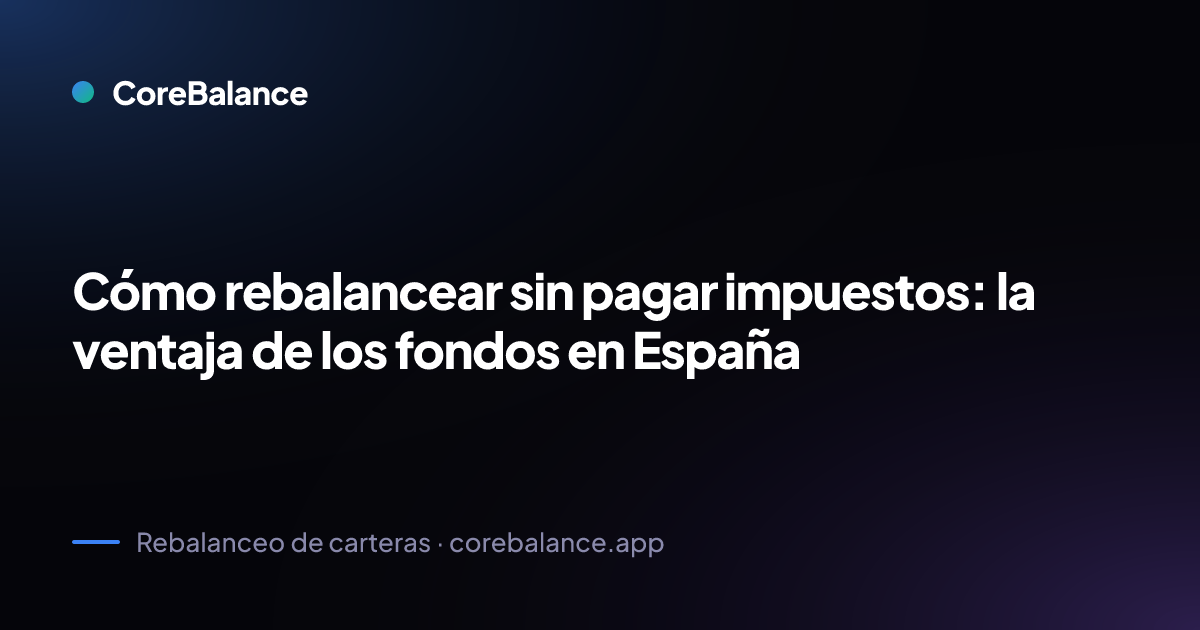
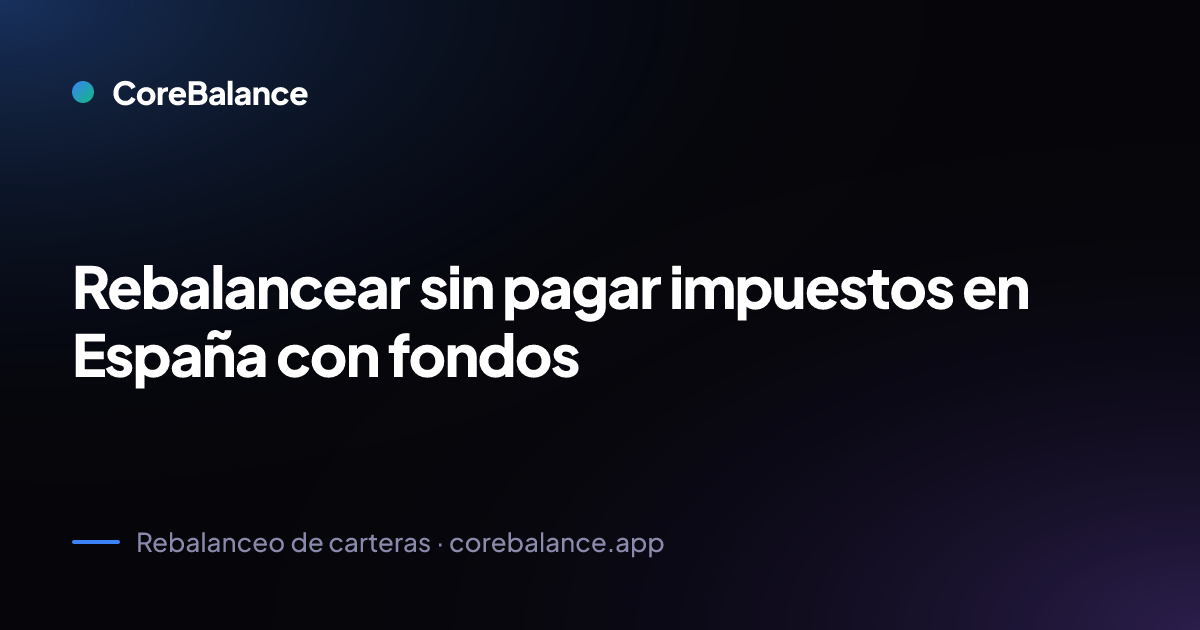
seo: quita el sufijo de marca de los títulos del blog y reenfoca acc-vs-dist
Sale de mirar Search Console con datos de tres meses: 55 clics, 3.700
impresiones, CTR 1,5 %, posición media 19,7.

⚠ Esa media engañaba. Las páginas que importan están en posiciones 6,5-9,2
—primera página—; el 19,7 lo arrastra una cola en posición 38-68. Así que lo
que hay no es un problema de ranking sino de CTR en posiciones donde el CTR sí
se puede trabajar.

## El sufijo « | CoreBalance» era el 75 % del problema

`BlogPost.svelte` componía `${post.title} | CoreBalance`: 14 caracteres en cada
uno de los 42 posts, sobre un presupuesto de ~60 que Google trunca. De los 27
títulos que `seo:audit` marcaba, **24 lo estaban solo por él**.

Y no aportaba marca: Google ya pinta el dominio encima del título, así que era
la misma información dos veces, pagada con la parte que responde a la consulta.
Medido: la consulta «corebalance» son 21 impresiones de 3.700. No hay marca que
proteger todavía. Las páginas que no son del blog conservan su sufijo, porque
ahí el título es de producto.

Resultado: 32 avisos → 5, y ninguno es ya de título.

## msci-world-acc-vs-dist: 651 impresiones, posición 7,9, CTR 1,4 %

Es la mayor visibilidad del sitio (18 % de todas las impresiones) rindiendo a un
tercio de lo normal para el puesto 8. Sus consultas son `acc vs dist`, `acc dis`,
`acc dist`: quieren **la diferencia**. El título abría con «El mejor ETF MSCI
World:», que promete una recomendación de fondo y deja lo que se pregunta detrás
[…]

Changed region(s): [[0.0617, 0.4222, 0.8633, 0.6333]]

diff --git a/src/lib/components/blog/BlogPost.svelte b/src/lib/components/blog/BlogPost.svelte
@@ -124,8 +124,23 @@
   const Content = $derived(post.content);
 </script>
 
+<!--
+  ⚠ El título va **sin** sufijo « | CoreBalance», y es un cambio medido, no estético.
+
+  Ese sufijo costaba 14 caracteres en cada uno de los 42 posts, sobre un presupuesto de
+  ~60 que Google trunca: 20 de los 27 títulos que `npm run seo:audit` marcaba como
+  truncados lo estaban **solo** por él. Y no aportaba marca, porque Google ya pinta el
+  dominio encima del título en el resultado — era la misma información dos veces, pagada
+  con la parte del título que sí responde a la consulta.
+
+  Medido el 11-ago-2026 en Search Console (3 meses): la consulta «corebalance» son 21
+  impresiones de 3.700. No hay marca que proteger todavía; sí hay títulos que truncar.
+
+  Las páginas que NO son del blog conservan su sufijo: ahí el título es de producto y la
+  marca sí es lo que se busca.
+-->
 <SeoHead
-  title={`${post.title} | CoreBalance`}
+  title={post.title}
   description={post.description}
   path={`/blog/${post.slug}`}
   lang={currentLang}

diff --git a/src/lib/i18n/i18n-types.ts b/src/lib/i18n/i18n-types.ts
@@ -745,7 +745,7 @@ type RootTranslation = {
 	}
 	seo: {
 		/**
-		 * CoreBalance — Gestiona y rebalancea tu cartera de fondos indexados y ETFs
+		 * CoreBalance — Gestiona y rebalancea tu cartera indexada
 		 */
 		title: string
 		/**
@@ -4887,7 +4887,7 @@ export type TranslationFunctions = {
 	}
 	seo: {
 		/**
-		 * CoreBalance — Gestiona y rebalancea tu cartera de fondos indexados y ETFs
+		 * CoreBalance — Gestiona y rebalancea tu cartera indexada
 		 */
 		title: () => LocalizedString
 		/**

diff --git a/src/lib/i18n/es/index.ts b/src/lib/i18n/es/index.ts
@@ -209,7 +209,7 @@ const es = {
   },
   // SEO
   seo: {
-    title: 'CoreBalance — Gestiona y rebalancea tu cartera de fondos indexados y ETFs',
+    title: 'CoreBalance — Gestiona y rebalancea tu cartera indexada',
     description: 'Gratis, privada y sin registro. Calcula tu rebalanceo en segundos, sigue tus transacciones, dividendos y TER, y mantén tu estrategia bajo control sin que tus datos salgan del navegador.',
     og_title: 'CoreBalance — Gestiona y rebalancea tu cartera indexada',
     og_description: 'Gestiona tu cartera de fondos indexados y ETFs: rebalanceo inteligente, libro de transacciones y seguimiento en tiempo real. Gratis y sin registro.',

diff --git a/src/content/blog/es/msci-world-acc-vs-dist.md b/src/content/blog/es/msci-world-acc-vs-dist.md
@@ -1,6 +1,6 @@
 ---
-title: "El mejor ETF MSCI World: Acumulación (Acc) vs Distribución (Dist)"
-description: "¿Acumulación o distribución? Comparamos los mejores ETFs del MSCI World y analizamos cuál te conviene fiscal y operativamente para tu cartera."
+title: "MSCI World Acc vs Dist: qué cambia y cuál te conviene"
+description: "La diferencia entre acumulación y distribución en el MSCI World, con lo que cambia en tu declaración y en tu interés compuesto. Cuál elegir según en qué fase estés."
 summary:
   - "La única diferencia entre Acc y Dist es qué hace el fondo con los dividendos: acumulación los reinvierte dentro del fondo, distribución te los ingresa."
   - "En fase de acumulación la versión Acc evita el peaje fiscal de cobrar el dividendo y aprovecha mejor el interés compuesto."

diff --git a/src/content/blog/es/rebalancear-sin-pagar-impuestos-espana.md b/src/content/blog/es/rebalancear-sin-pagar-impuestos-espana.md
@@ -1,5 +1,5 @@
 ---
-title: "Cómo rebalancear sin pagar impuestos: la ventaja de los fondos en España"
+title: "Rebalancear sin pagar impuestos en España con fondos"
 description: "Aprende a rebalancear tu cartera de fondos de inversión de forma fiscalmente óptima. Maximiza el diferimiento fiscal y evita el peaje de Hacienda."
 summary:
   - "En España la ley del IRPF concede a los fondos de inversión un régimen de diferimiento fiscal: puedes traspasar de un fondo a otro sin tributar por la ganancia acumulada."

diff --git a/src/content/blog/es/fondos-indexados-vs-etfs-espana.md b/src/content/blog/es/fondos-indexados-vs-etfs-espana.md
@@ -1,5 +1,5 @@
 ---
-title: "Fondos indexados vs ETFs: diferencias prácticas para el inversor español"
+title: "Fondos indexados vs ETFs para el inversor español"
 description: "Descubre las diferencias clave entre fondos indexados y ETFs. Analizamos la fiscalidad, costes, comisiones y cuál te conviene más para invertir en España."
 summary:
   - "La diferencia decisiva en España es fiscal: los fondos de inversión se pueden traspasar sin tributar por la ganancia, los ETFs no."
